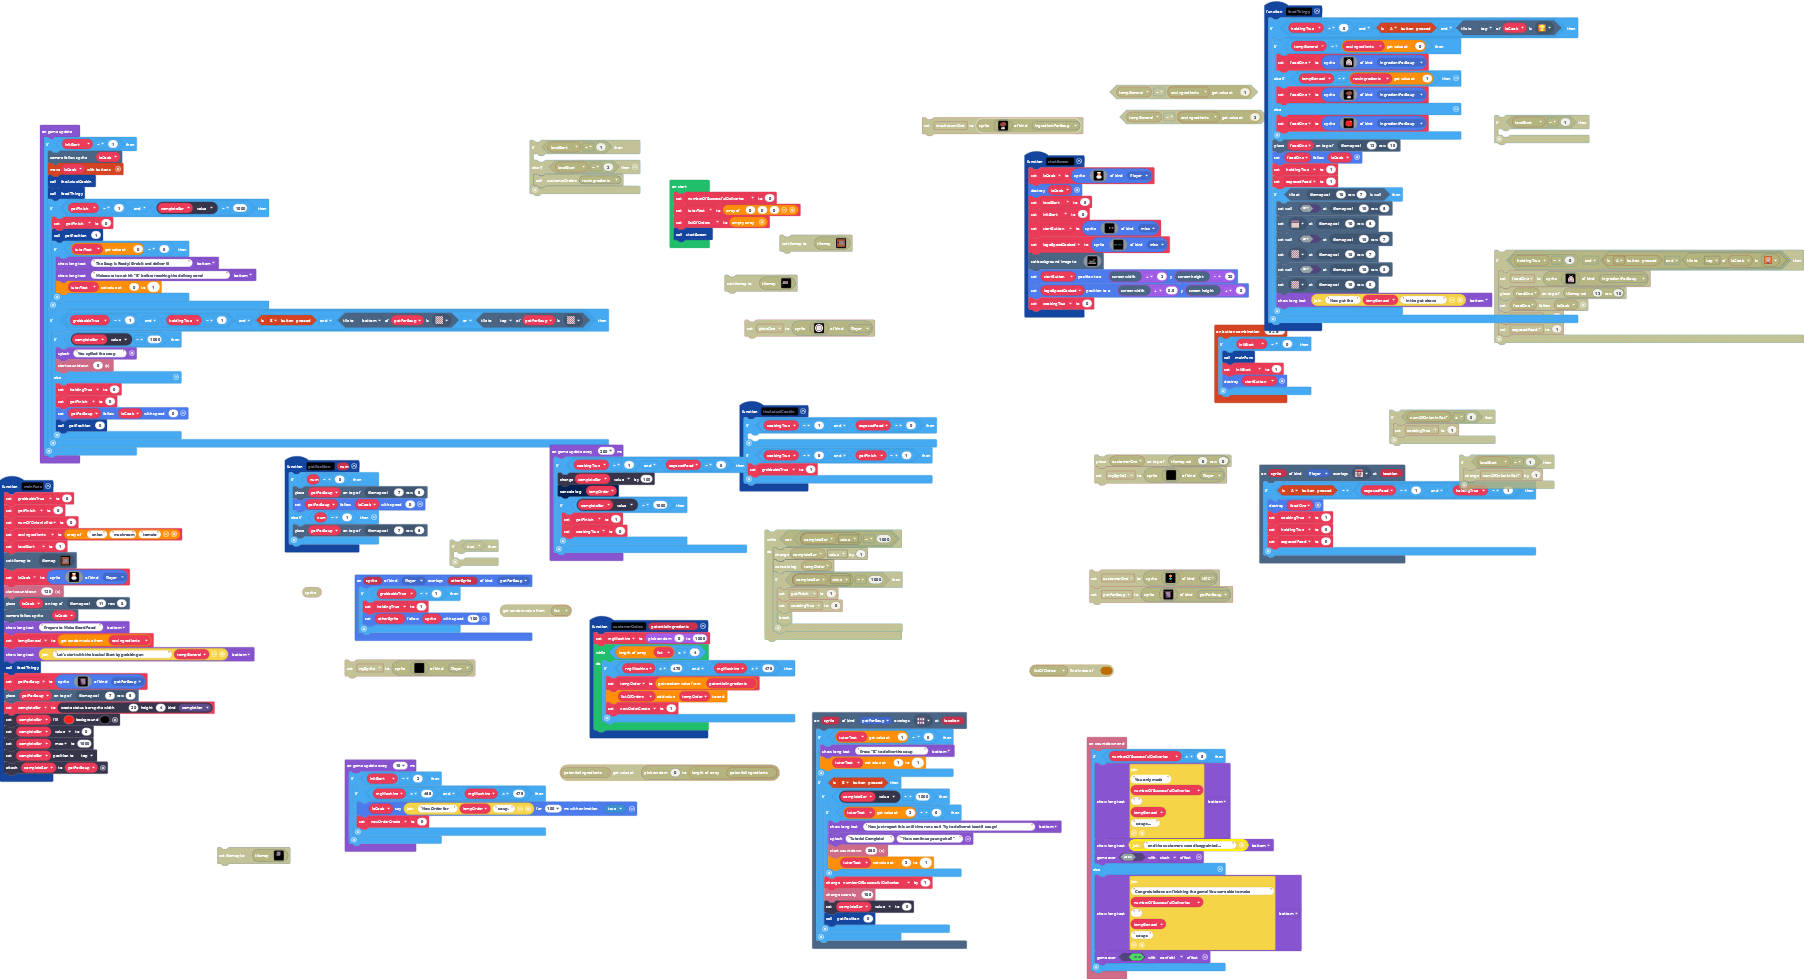
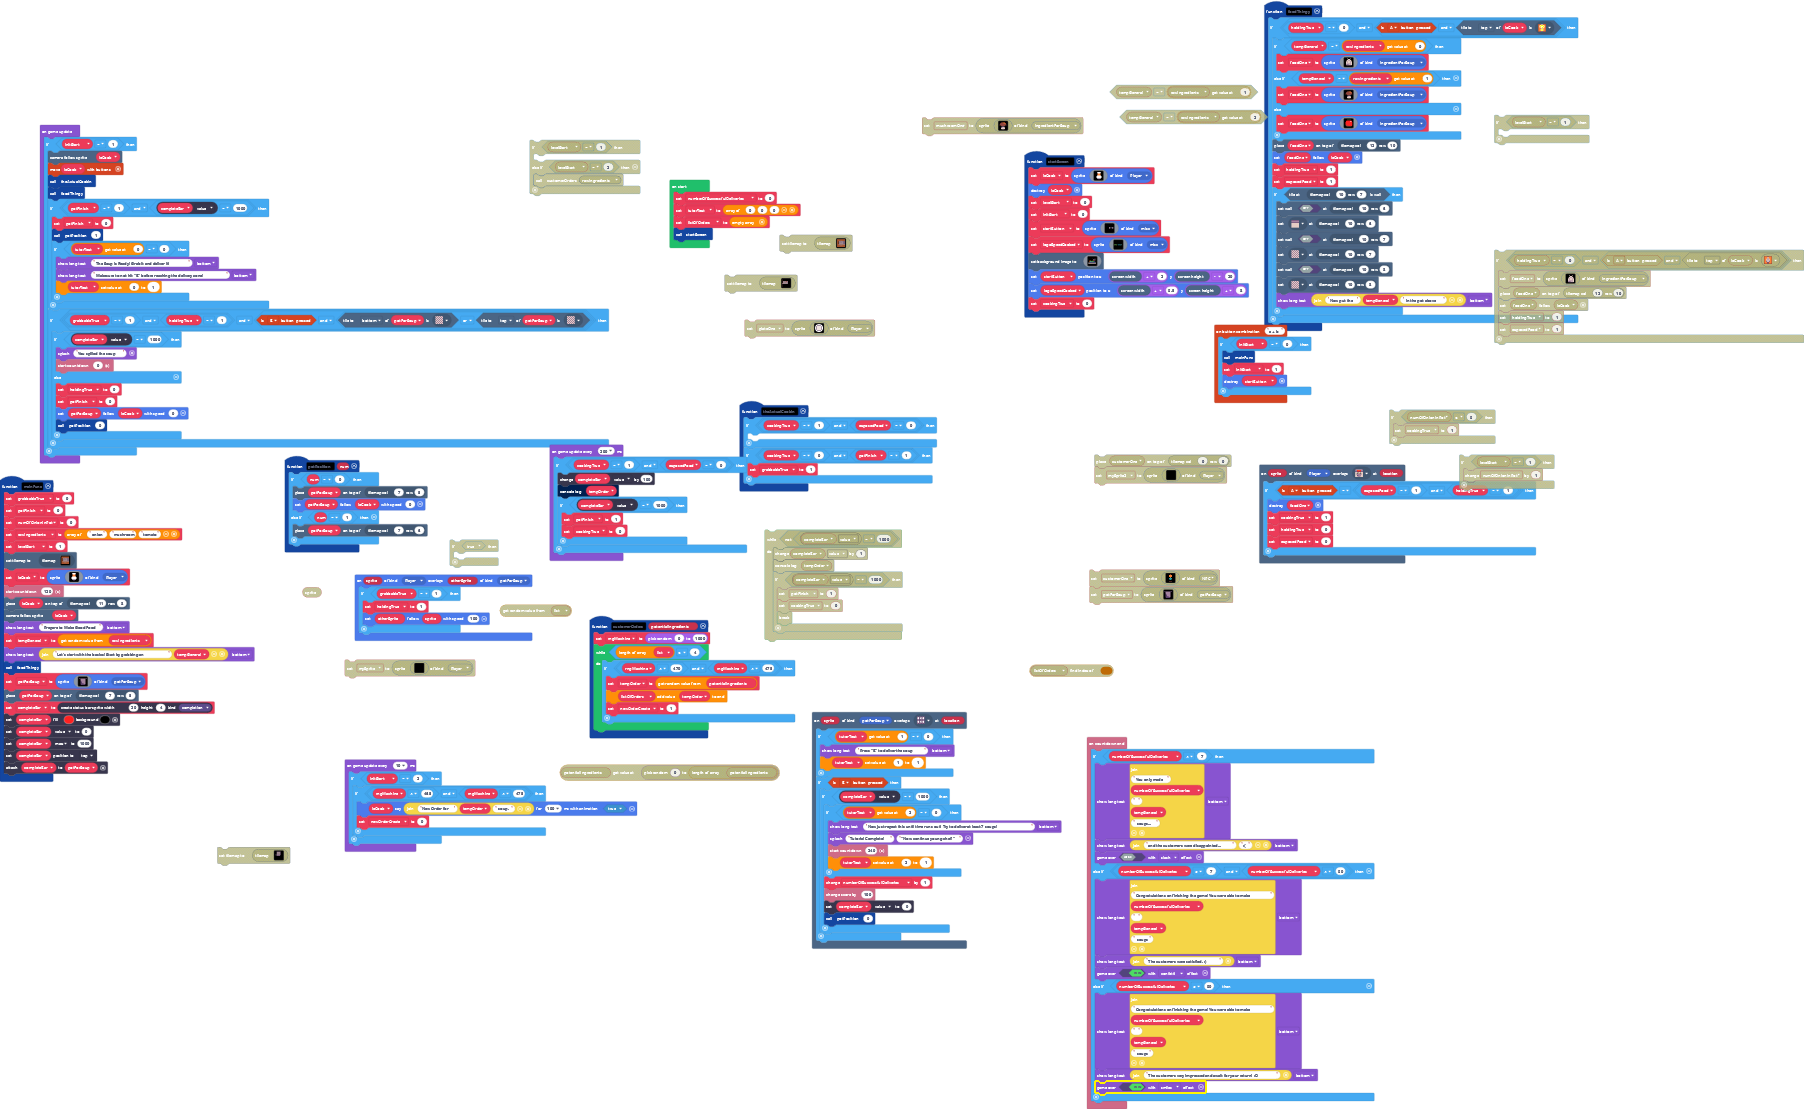
Update main.blocks, main.ts

diff --git a/main.ts b/main.ts
@@ -40,13 +40,18 @@ sprites.onOverlap(SpriteKind.Player, SpriteKind.potForSoup, function (sprite, ot
     }
 })
 info.onCountdownEnd(function () {
-    if (numberOfSuccessfulDeliveries < 5) {
+    if (numberOfSuccessfulDeliveries < 7) {
         game.showLongText("You only made " + numberOfSuccessfulDeliveries + " " + tempGeneral + " soups...", DialogLayout.Bottom)
-        game.showLongText("and the customers were disappointed...", DialogLayout.Bottom)
+        game.showLongText("and the customers were disappointed..." + ":(", DialogLayout.Bottom)
         game.over(false, effects.slash)
-    } else {
+    } else if (numberOfSuccessfulDeliveries >= 7 && numberOfSuccessfulDeliveries < 30) {
         game.showLongText("Congratulations on finishing the game! You were able to make " + numberOfSuccessfulDeliveries + " " + tempGeneral + " soups", DialogLayout.Bottom)
+        game.showLongText("The customers were satisfied. :)", DialogLayout.Bottom)
         game.over(true, effects.confetti)
+    } else if (numberOfSuccessfulDeliveries >= 30) {
+        game.showLongText("Congratulations on finishing the game! You were able to make " + numberOfSuccessfulDeliveries + " " + tempGeneral + " soups", DialogLayout.Bottom)
+        game.showLongText("The customers very impressed and await for your return! :D", DialogLayout.Bottom)
+        game.over(true, effects.smiles)
     }
 })
 function mainFunc () {
@@ -348,9 +353,9 @@ scene.onOverlapTile(SpriteKind.potForSoup, assets.tile`checkOut`, function (spri
     if (controller.B.isPressed()) {
         if (completeBar.value == 1000) {
             if (tutorText[2] == 0) {
-                game.showLongText("Now just repeat this until time runs out! Try to deliver at least 5 soups!", DialogLayout.Bottom)
+                game.showLongText("Now just repeat this until time runs out! Try to deliver at least 7 soups!", DialogLayout.Bottom)
                 game.splash("Tutorial Complete!", "\"Now continue young chef!\"")
-                info.startCountdown(360)
+                info.startCountdown(240)
                 tutorText[2] = 1
             }
             numberOfSuccessfulDeliveries += 1
